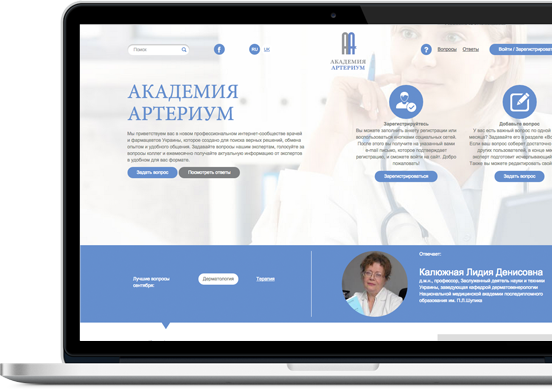
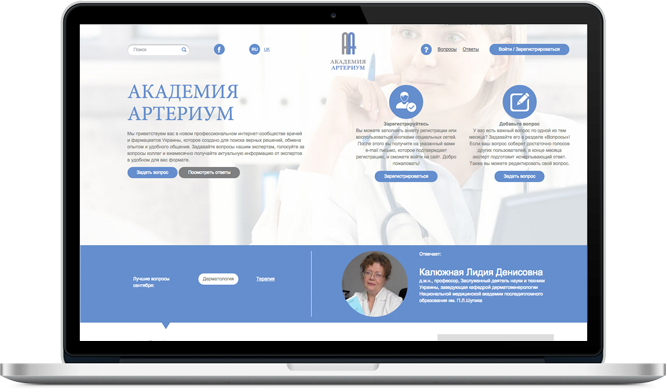
Updates

diff --git a/css/styles.css b/css/styles.css
@@ -1,2 +1,2 @@
 a,abbr,acronym,address,applet,article,aside,audio,b,big,blockquote,body,canvas,caption,center,cite,code,dd,del,details,dfn,div,dl,dt,em,embed,fieldset,figcaption,figure,footer,form,h1,h2,h3,h4,h5,h6,header,hgroup,html,i,iframe,img,ins,kbd,label,legend,li,mark,menu,nav,object,ol,output,p,pre,q,ruby,s,samp,section,small,span,strike,strong,sub,summary,sup,table,tbody,td,tfoot,th,thead,time,tr,tt,u,ul,var,video{margin:0;padding:0;border:0;font:inherit;vertical-align:baseline}article,aside,details,figcaption,figure,footer,header,hgroup,menu,nav,section{display:block}body{line-height:1}ol,ul{list-style:none}blockquote,q{quotes:none}blockquote:after,blockquote:before,q:after,q:before{content:'';content:none}table{border-collapse:collapse;border-spacing:0}
-@font-face{font-family:'Gotham Pro';src:url(../fonts/gothaproreg-webfont.eot);src:url(../fonts/gothaproreg-webfont.eot?#iefix) format('embedded-opentype'),url(../fonts/gothaproreg-webfont.woff) format('woff'),url(../fonts/gothaproreg-webfont.ttf) format('truetype');font-weight:400;font-style:normal}@font-face{font-family:Marion;src:url(../fonts/marion-webfont.eot);src:url(../fonts/marion-webfont.eot?#iefix) format('embedded-opentype'),url(../fonts/marion-webfont.woff) format('woff'),url(../fonts/marion-webfont.ttf) format('truetype'),url(../fonts/marion-webfont.svg#marionregular) format('svg');font-weight:400;font-style:normal}html{height:100%;position:relative;font-family:'Gotham Pro',sans-serif}html body{position:relative;min-height:100%;-moz-box-sizing:border-box;box-sizing:border-box;padding-bottom:57px}html body header{background:url(../images/mp_bg.jpg) 50% 50%/cover no-repeat #FFF;position:relative}html body header .section-title{background-color:#668FCB;white-space:nowrap;font-size:16px;line-height:57px;padding:0 80px 0 40px;color:#fff;position:absolute;bottom:40px;left:0;width:740px;max-width:56%;-moz-box-sizing:border-box;box-sizing:border-box;z-index:1;overflow:hidden;text-overflow:ellipsis;text-transform:uppercase;font-family:'Gotham Pro',sans-serif}html body header .section-title:after{content:".";display:block;position:absolute;top:50%;right:40px;height:0;line-height:0;overflow:hidden;font-size:0;border-width:10px 0 10px 18px;border-color:transparent transparent transparent #fff;border-style:solid;margin-top:-10px}html body header .wrapper{min-height:248px;max-width:688px;padding:220px 552px 117px 40px;margin:auto}html body header .wrapper .logotype{display:block;overflow:hidden;font-size:0;line-height:0;text-indent:-999px;width:93px;height:97px;position:absolute;top:33px;left:0;right:0;margin:auto;background:url(../svg/logo_ru.svg) 50% 50% no-repeat}html body header .wrapper .title{color:#668fcb;text-transform:uppercase;font-size:60px;line-height:65px;overflow:hidden;text-overflow:ellipsis;margin:0 0 40px;font-family:Marion,serif}html body header .wrapper p{color:#7d7f81;font-size:12px;line-height:16px}html body header:after{width:552px;height:392px;content:".";display:block;position:absolute;bottom:26px;right:0;background:url(../images/macbook.png) 100% 100%/contain no-repeat}html body .best{background:url(../images/best_bg.jpg) 50% 50%/cover no-repeat #7499D0;position:relative}html body .best .section-title{background-color:#668FCB;white-space:nowrap;font-size:16px;line-height:57px;padding:0 80px 0 40px;color:#fff;position:absolute;bottom:40px;left:0;width:740px;max-width:56%;-moz-box-sizing:border-box;box-sizing:border-box;z-index:1;overflow:hidden;text-overflow:ellipsis;text-transform:uppercase;font-family:'Gotham Pro',sans-serif}html body .best .section-title:after{content:".";display:block;position:absolute;top:50%;right:40px;height:0;line-height:0;overflow:hidden;font-size:0;border-width:10px 0 10px 18px;border-color:transparent transparent transparent #fff;border-style:solid;margin-top:-10px}html body .best .wrapper{max-width:1200px;min-height:585px;padding:0 40px;margin:auto}html body .questions{background:url(../images/ask_bg.jpg) 50% 50%/cover no-repeat #7499D0;position:relative}html body .questions .section-title{background-color:#fff;white-space:nowrap;font-size:16px;line-height:57px;padding:0 80px 0 40px;color:#668fcb;position:absolute;bottom:40px;left:0;width:740px;max-width:56%;-moz-box-sizing:border-box;box-sizing:border-box;z-index:1;overflow:hidden;text-overflow:ellipsis;text-transform:uppercase;font-family:'Gotham Pro',sans-serif}html body .questions .section-title:after{content:".";display:block;position:absolute;top:50%;right:40px;height:0;line-height:0;overflow:hidden;font-size:0;border-width:10px 0 10px 18px;border-color:transparent transparent transparent #668fcb;border-style:solid;margin-top:-10px}html body .questions .wrapper{max-width:1200px;padding:0 40px;min-height:585px;margin:auto;color:#fff}html body .questions .wrapper section{padding:130px 40px 117px 20px;display:inline-block;vertical-align:top;text-align:center;width:23.4355%;-moz-box-sizing:border-box;box-sizing:border-box;position:relative}html body .questions .wrapper section:after{content:".";overflow:hidden;text-indent:-888px;position:absolute;top:210px;left:0;right:0;margin:auto;background:url(../svg/reg.svg) 50% 50% no-repeat #fff;height:88px;width:88px;border-radius:100%;pointer-events:none;display:block}html body .questions .wrapper section .title{font-family:'Gotham Pro',sans-serif;font-size:16px;line-height:20px;text-transform:uppercase;margin:0 0 130px;height:60px;overflow:hidden;text-overflow:ellipsis}html body .questions .wrapper section p{font-family:'Gotham Pro',sans-serif;font-size:12px;line-height:14px}html body footer{background-color:#1c4178;position:absolute;bottom:0;left:0;right:0;height:57px;overflow:hidden}html body footer .wrapper{font-size:12px;max-width:1200px;padding:0 40px;margin:auto;color:#FFF;line-height:57px}
+@font-face{font-family:'Gotham Pro';src:url(../fonts/gothaproreg-webfont.eot);src:url(../fonts/gothaproreg-webfont.eot?#iefix) format('embedded-opentype'),url(../fonts/gothaproreg-webfont.woff) format('woff'),url(../fonts/gothaproreg-webfont.ttf) format('truetype');font-weight:400;font-style:normal}@font-face{font-family:Marion;src:url(../fonts/marion-webfont.eot);src:url(../fonts/marion-webfont.eot?#iefix) format('embedded-opentype'),url(../fonts/marion-webfont.woff) format('woff'),url(../fonts/marion-webfont.ttf) format('truetype'),url(../fonts/marion-webfont.svg#marionregular) format('svg');font-weight:400;font-style:normal}html{height:100%;position:relative;font-family:'Gotham Pro',sans-serif}html body{position:relative;min-height:100%;min-width:1280px;-moz-box-sizing:border-box;box-sizing:border-box;padding-bottom:57px}html body header{background:url(../images/mp_bg.jpg) 50% 50%/cover no-repeat #FFF;position:relative;overflow:hidden}html body header .section-title{background-color:#668FCB;white-space:nowrap;font-size:16px;line-height:57px;height:57px;padding:0 80px 0 40px;color:#fff;position:absolute;bottom:40px;left:0;width:56%;max-width:56%;-moz-box-sizing:border-box;box-sizing:border-box;z-index:1;overflow:hidden;text-overflow:ellipsis;text-transform:uppercase;font-family:'Gotham Pro',sans-serif}html body header .section-title span{position:absolute;right:0;min-width:600px;margin-right:10.714%;display:inline-block;text-align:left;overflow:hidden;text-overflow:ellipsis}html body header .section-title:after{content:".";display:block;position:absolute;top:50%;right:40px;height:0;line-height:0;overflow:hidden;font-size:0;border-width:10px 0 10px 18px;border-color:transparent transparent transparent #fff;border-style:solid;margin-top:-10px}html body header .wrapper{min-height:248px;max-width:688px;padding:220px 552px 117px 40px;margin:auto;position:relative}html body header .wrapper:after{width:667px;height:392px;content:".";display:block;position:absolute;bottom:26px;left:100%;margin-left:-552px;background:url(../images/macbook.png) 0 0/contain no-repeat}html body header .wrapper .logotype{display:block;overflow:hidden;font-size:0;line-height:0;text-indent:-999px;width:93px;height:97px;position:absolute;top:33px;left:0;right:0;margin:auto;background:url(../svg/logo_ru.svg) 50% 50% no-repeat}html body header .wrapper .title{color:#668fcb;text-transform:uppercase;font-size:60px;line-height:65px;overflow:hidden;text-overflow:ellipsis;margin:0 0 40px;font-family:Marion,serif}html body header .wrapper p{color:#7d7f81;font-size:12px;line-height:16px}html body .best{background:url(../images/best_bg.jpg) 50% 50%/cover no-repeat #7499D0;position:relative;padding:165px 0 212px}html body .best .section-title{background-color:#668FCB;white-space:nowrap;font-size:16px;line-height:57px;height:57px;padding:0 80px 0 40px;color:#fff;position:absolute;bottom:40px;left:0;width:56%;-moz-box-sizing:border-box;box-sizing:border-box;z-index:1;text-transform:uppercase;font-family:'Gotham Pro',sans-serif;text-align:right}html body .best .section-title span{position:absolute;right:0;min-width:600px;margin-right:10.714%;display:inline-block;text-align:left;overflow:hidden;text-overflow:ellipsis}html body .best .section-title:after{content:".";display:block;position:absolute;top:50%;right:40px;height:0;line-height:0;overflow:hidden;font-size:0;border-width:10px 0 10px 18px;border-color:transparent transparent transparent #fff;border-style:solid;margin-top:-10px}html body .best .slider{background-color:#668FCB;height:212px}html body .best .slider .wrapper{position:relative;max-width:1200px;margin:auto}html body .best .slider .wrapper .slides{display:block;width:50%;height:212px;white-space:nowrap;overflow:hidden;font-size:0;line-height:212px;position:relative}html body .best .slider .wrapper .slides nav .next,html body .best .slider .wrapper .slides nav .prev{position:absolute;height:0;width:0;line-height:0;font-size:0;overflow:hidden;border-style:solid;cursor:pointer;z-index:2}html body .best .slider .wrapper .slides nav .next{right:0;top:50%;margin-top:-20px;border-width:20px 0 20px 35px;border-color:transparent transparent transparent #FFF}html body .best .slider .wrapper .slides nav .prev{left:0;top:50%;margin-top:-20px;border-width:20px 35px 20px 0;border-color:transparent #FFF transparent transparent}html body .best .slider .wrapper .slides .slide{width:100%;height:212px;display:inline-block;vertical-align:top;position:relative}html body .best .slider .wrapper .slides .slide .abstract{font-family:'Gotham Pro',sans-serif;margin:0 0 0 40px;padding:40px 40px 0 0;position:absolute;top:0;left:262px;bottom:0;right:0;white-space:normal;height:172px;color:#FFF}html body .best .slider .wrapper .slides .slide .abstract p{font-size:12px;line-height:16px}html body .best .slider .wrapper .slides .slide .abstract p.name{font-size:28px;line-height:36px;margin:20px 0 10px}html body .best .slider .wrapper .slides .slide .abstract p.details{width:auto;font-style:italic}html body .best .slider .wrapper .slides .slide img{width:172px;height:172px;border-radius:100%;display:block;position:absolute;left:70px;top:0;bottom:0;margin:auto}html body .best .slider .wrapper .title{pointer-events:none;z-index:0;position:absolute;bottom:100%;left:0;margin-bottom:-20px;font-size:60px;line-height:80px;color:#668FCB;font-family:Marion}html body .questions{background:url(../images/ask_bg.jpg) 100% 50%/cover no-repeat #7499D0;position:relative}html body .questions .section-title{background-color:#fff;white-space:nowrap;font-size:16px;line-height:57px;height:57px;padding:0 80px 0 40px;color:#668fcb;position:absolute;bottom:40px;left:0;width:56%;max-width:56%;-moz-box-sizing:border-box;box-sizing:border-box;z-index:1;overflow:hidden;text-overflow:ellipsis;text-transform:uppercase;font-family:'Gotham Pro',sans-serif}html body .questions .section-title span{position:absolute;right:0;min-width:600px;margin-right:10.714%;display:inline-block;text-align:left;overflow:hidden;text-overflow:ellipsis}html body .questions .section-title:after{content:".";display:block;position:absolute;top:50%;right:40px;height:0;line-height:0;overflow:hidden;font-size:0;border-width:10px 0 10px 18px;border-color:transparent transparent transparent #668fcb;border-style:solid;margin-top:-10px}html body .questions .wrapper{max-width:1200px;padding:0 40px;min-height:585px;margin:auto;color:#fff}html body .questions .wrapper section{padding:130px 40px 117px 20px;display:inline-block;vertical-align:top;text-align:center;width:23.4355%;-moz-box-sizing:border-box;box-sizing:border-box;position:relative}html body .questions .wrapper section:after{content:".";overflow:hidden;text-indent:-888px;position:absolute;top:210px;left:0;right:0;margin:auto;background:url(../svg/reg.svg) 50% 50% no-repeat #fff;height:88px;width:88px;border-radius:100%;pointer-events:none;display:block}html body .questions .wrapper section .title{font-family:'Gotham Pro',sans-serif;font-size:16px;line-height:20px;text-transform:uppercase;margin:0 0 130px;height:60px;overflow:hidden;text-overflow:ellipsis}html body .questions .wrapper section p{font-family:'Gotham Pro',sans-serif;font-size:12px;line-height:14px}html body footer{background-color:#1c4178;position:absolute;bottom:0;left:0;right:0;height:57px;overflow:hidden}html body footer .wrapper{text-align:center;font-size:12px;max-width:1200px;padding:0 40px;margin:auto;color:#FFF;line-height:57px}html body footer .wrapper .developed_by{overflow:hidden;text-indent:-999px;float:right;height:18px;width:56px;margin:19px 0 0;background:url(../svg/developed-by.svg) 100% 50%/auto 100% no-repeat}html body footer .wrapper .rules{color:#FFF}html body footer .wrapper .rules:hover{text-decoration:none}html body footer .wrapper .copyright{float:left}

diff --git a/index.html b/index.html
@@ -15,14 +15,14 @@
 
 <body>
     <header>
-        <h2 class="section-title">Приєднуйтесь до участі в проекті прямо зараз!</h2>
+        <h2 class="section-title"><span>Приєднуйтесь до участі в проекті прямо зараз!</span></h2>
         <div class="wrapper"><a href="/"><h1 class="logotype">Академiя артерiум</h1></a>
             <h3 class="title">Перша медична спільнота </h3>
             <p>Приєднуйтесь до професійної спільноти, яка об'єднує лікарів і фармацевтів усієї України. Спілкуйтесь з колегами та обмінюйтесь досвідом та знаннями з найкращими фахівцями. Стати учасником спільноти «Академія Артеріум» дуже просто!</p>
         </div>
     </header>
     <article class="questions">
-        <h2 class="section-title">Ставте запитання і отримуйте докладну відповідь </h2>
+        <h2 class="section-title"><span>Ставте запитання і отримуйте докладну відповідь </span></h2>
         <div class="wrapper">
             <section>
                 <h3 class="title">У вас є запитання до колег або експертів? </h3>
@@ -35,28 +35,38 @@
         </div>
     </article>
     <article class="best">
-        <h2 class="section-title">на вас чекають кращі фахівці різних галузей медицини!</h2>
-        <div class="wrapper">
-            <h3 class="title">Експерти місяця</h3>
-            <div class="slider">
-                <nav>
-                    <a href="#" class="next"></a>
-                    <a href="#" class="prev"></a>
-                </nav>
-                <div class="silde">
-                    <img src="images/face.png" alt="Фотокартка" />
-                    <div class="abstract">
-                        <p>На запитання відповідає:</p>
-                        <p class="name">Ігор Березняков</p>
-                        <p class="abstract">д.м.н., професор, завідуючий кафедрою терапії Харківської медичної академії післядипломної освіти, президент Української асоціації за раціональне використання антибіотиків</p>
+        <h2 class="section-title"><span>на вас чекають кращі фахівці різних галузей медицини!</span></h2>
+        <div class="slider">
+            <div class="wrapper">
+                <h3 class="title">Експерти місяця</h3>
+                <div class="slides">
+                    <nav>
+                        <a href="#" class="next"></a>
+                        <a href="#" class="prev"></a>
+                    </nav>
+                    <div class="slide">
+                        <img src="images/face.png" alt="Фотокартка" />
+                        <div class="abstract">
+                            <p>На запитання відповідає:</p>
+                            <p class="name">Ігор Березняков</p>
+                            <p class="details">д.м.н., професор, завідуючий кафедрою терапії Харківської медичної академії післядипломної освіти, президент Української асоціації за раціональне використання антибіотиків</p>
+                        </div>
+                    </div>
+                    <div class="slide">
+                        <img src="images/face.png" alt="Фотокартка" />
+                        <div class="abstract">
+                            <p>На запитання відповідає:</p>
+                            <p class="name">Багабут Маламутович</p>
+                            <p class="details">д.м.н., професор, завідуючий кафедрою терапії Харківської медичної академії післядипломної освіти, президент Української асоціації за раціональне використання антибіотиків</p>
+                        </div>
                     </div>
                 </div>
             </div>
         </div>
     </article>
     <footer>
-        <div class="wrapper">
-            <p class="copyright">© 2014 Корпорація Arterium</p><a href="#">Умови використання</a>
+        <div class="wrapper"><a href="http://territory.com.ua/" class="developed_by">CBT</a>
+            <p class="copyright">© 2014 Корпорація Arterium</p><a href="#" class="rules">Умови використання</a>
         </div>
     </footer>
 </body>
